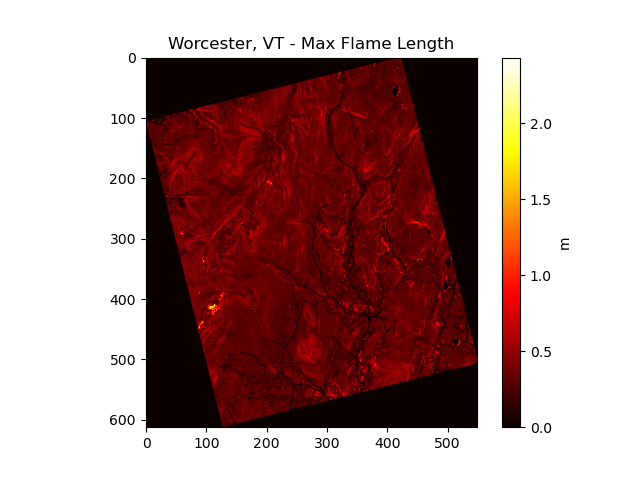
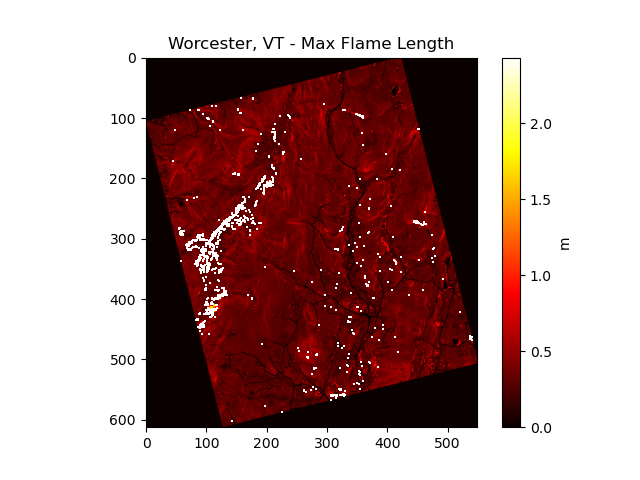
Updated fireline intensity and flame length calculations in calc_combined_fire_behavior

Changed region(s): [[0.2812, 0.4062, 0.4062, 0.6875], [0.4062, 0.3438, 0.4375, 0.4062], [0.5, 0.8125, 0.5312, 0.8438]]

diff --git a/doc/pyretechnics.html b/doc/pyretechnics.html
@@ -4512,13 +4512,9 @@ this plane from \(\vec{u_{\max}}\).
 <div class="outline-text-4" id="text-combining-surface-and-crown-fire-behavior">
 <p>
 When both surface fire and crown fire are present in the same
-location, their combined behavior determines the spread rate and
-intensity values associated with this location. Specifically, their
-combined spread rate is the maximum of the two spread rates and their
-combined fireline intensity is the sum of their two fireline
-intensities. Their combined flame length is the flame length of their
-combined fireline intensities. The fire type associated with this
-combined fire will be the crown fire type.
+location, their combined behavior determines the fire type, spread
+rate and direction, fireline intensity, and flame length values
+associated with this location.
 </p>
 
 <p>
@@ -4527,9 +4523,142 @@ fire spread ellipses with potentially different maximum spread
 directions, their relative spread rates and intensities should only be
 compared in a given absolute direction in the slope-tangential plane.
 </p>
+</div>
+<ol class="org-ol">
+<li><a id="combined-fire-type"></a>Combined Fire Type<br>
+<div class="outline-text-5" id="text-combined-fire-type">
+<p>
+The fire type associated with the combined fire is the crown fire
+type, either "passive_crown" or "active_crown".
+</p>
+</div>
+</li>
+<li><a id="combined-spread-rate-and-direction"></a>Combined Spread Rate and Direction<br>
+<div class="outline-text-5" id="text-combined-spread-rate-and-direction">
+<p>
+The combined spread rate is defined to be the maximum of the surface
+and crown spread rates as follows:
+</p>
 
+\begin{align}
+  R_{s+c} = \max(R_s, R_c) \\
+\end{align}
+
+<p>
+The combined spread direction is the spread direction associated with
+whichever fire front has the fastest spread rate.
+</p>
+</div>
+</li>
+<li><a id="combined-fireline-intensity"></a>Combined Fireline Intensity<br>
+<div class="outline-text-5" id="text-combined-fireline-intensity">
+<p>
+Combining surface and crown fireline intensities is slightly more
+complicated. From section <a href="#surface-fire-intensity-functions">6.1.3</a>, we can see
+the following relationship between the surface fire spread rate \(R_s\),
+fireline intensity \(I_s\), reaction intensity \(I_{Rs}\), and residence
+time \(t_{\text{res_s}}\):
+</p>
+
+\begin{align}
+  I_s = \frac{I_{Rs} \, R_s \, t_{\text{res_s}}}{60} \\
+\end{align}
+
+<p>
+Rearranging these terms yields the formula for the surface fire heat
+per unit area \(H_s\):
+</p>
+
+\begin{align}
+  H_s = I_{Rs} \, t_{\text{res_s}} = 60 \, \frac{I_s}{R_s} \\
+\end{align}
+
+<p>
+Similarly, we can infer that the same physical relationships also hold
+regarding heat per unit area for crown fires:
+</p>
+
+\begin{align}
+  I_c &= \frac{I_{Rc} \, R_c \, t_{\text{res_c}}}{60} \\
+  \nonumber \\
+  H_c &= I_{Rc} \, t_{\text{res_c}} = 60 \, \frac{I_c}{R_c} \\
+\end{align}
+
+<p>
+Although \(I_{Rc}\) and \(t_{\text{res_c}}\) are undefined, we can
+fortunately recover \(H_c\) from the crown fire spread rate \(R_c\) and
+fireline intensity \(I_c\) alone.
+</p>
+
+<p>
+When both surface and canopy fuels burn in the same area, their
+combined heat per unit area \(H_{s+c}\) is their sum:
+</p>
+
+\begin{align}
+  H_{s+c} = H_s + H_c \\
+\end{align}
+
+<p>
+Applying the relationship between fireline intensity and spread rate
+shown above to the combined heat per unit area then yields this
+formula:
+</p>
+
+\begin{align}
+  H_{s+c} = 60 \, \frac{I_{s+c}}{R_{s+c}} \\
+\end{align}
+
+<p>
+Combining these two equations and substituting in the definitions for
+\(H_s\) and \(H_c\) above gives us the following derivation for the
+combined fireline intensity \(I_{s+c}\):
+</p>
+
+\begin{align}
+  H_{s+c} &= H_s + H_c \\
+  \nonumber \\
+  60 \, \frac{I_{s+c}}{R_{s+c}} &= 60 \left(\frac{I_s}{R_s} + \frac{I_c}{R_c}\right) \\
+  \nonumber \\
+  I_{s+c} &= R_{s+c} \left(\frac{I_s}{R_s} + \frac{I_c}{R_c}\right) \\
+\end{align}
+
+<p>
+Note that by definition \(R_{s+c} \le R_s + R_c\) and therefore \(I_{s+c}
+\ge I_s + I_c\). Substituting in the definition of \(R_{s+c}\) gives us
+this piecewise formula:
+</p>
+
+\begin{align}
+  I_{s+c} &= \left\{
+    \begin{array}{lr}
+      I_s + I_c \frac{R_s}{R_c} & \text{when}\ R_s > R_c \\
+      I_s \frac{R_c}{R_s} + I_c & \text{when}\  R_s < R_c \\
+      I_s + I_c & \text{when}\ R_s = R_c \\
+    \end{array}
+  \right. \\
+\end{align}
+</div>
+</li>
+<li><a id="combined-flame-length"></a>Combined Flame Length<br>
+<div class="outline-text-5" id="text-combined-flame-length">
+<p>
+The combined flame length is the flame length of the combined fireline
+intensity as follows:
+</p>
+
+\begin{align}
+  L_{s+c} = 0.45(I_{s+c})^{0.46}
+\end{align}
+</div>
+</li>
+<li><a id="combined-fire-behavior-implementation"></a>Combined Fire Behavior Implementation<br>
+<div class="outline-text-5" id="text-combined-fire-behavior-implementation">
 <div class="org-src-container">
-<pre class="src src-python" id="combined-fire-behavior"><span class="org-keyword">def</span> <span class="org-function-name">calc_combined_fire_behavior</span>(surface_fire_behavior, crown_fire_behavior):
+<pre class="src src-python" id="combined-fire-behavior"><span class="org-keyword">import</span> pyretechnics.surface_fire <span class="org-keyword">as</span> sf
+
+
+<span class="org-keyword">def</span> <span class="org-function-name">calc_combined_fire_behavior</span>(surface_fire_behavior, crown_fire_behavior):
     <span class="org-doc">"""</span>
 <span class="org-doc">    Given these inputs:</span>
 <span class="org-doc">    - surface_fire_behavior :: dictionary of surface fire behavior values</span>
@@ -4563,25 +4692,31 @@ compared in a given absolute direction in the slope-tangential plane.
     <span class="org-comment-delimiter"># </span><span class="org-comment">Determine whether the surface or crown fire has the fastest spread rate</span>
     <span class="org-keyword">if</span> surface_spread_rate <span class="org-operator">&gt;</span> crown_spread_rate:
         <span class="org-comment-delimiter"># </span><span class="org-comment">Surface fire spreads faster</span>
+        <span class="org-variable-name">combined_fireline_intensity</span> <span class="org-operator">=</span> (surface_fireline_intensity
+                                       <span class="org-operator">+</span> crown_fireline_intensity <span class="org-operator">*</span> surface_spread_rate <span class="org-operator">/</span> crown_spread_rate)
         <span class="org-keyword">return</span> {
             <span class="org-string">"fire_type"</span>         : crown_fire_type,
             <span class="org-string">"spread_rate"</span>       : surface_spread_rate,
             <span class="org-string">"spread_direction"</span>  : surface_spread_direction,
-            <span class="org-string">"fireline_intensity"</span>: surface_fireline_intensity <span class="org-operator">+</span> crown_fireline_intensity,
-            <span class="org-string">"flame_length"</span>      : calc_crown_fire_flame_length(surface_fireline_intensity, crown_fireline_intensity),
+            <span class="org-string">"fireline_intensity"</span>: combined_fireline_intensity,
+            <span class="org-string">"flame_length"</span>      : sf.calc_flame_length(combined_fireline_intensity),
         }
     <span class="org-keyword">else</span>:
         <span class="org-comment-delimiter"># </span><span class="org-comment">Crown fire spreads faster</span>
+        <span class="org-variable-name">combined_fireline_intensity</span> <span class="org-operator">=</span> (surface_fireline_intensity <span class="org-operator">*</span> crown_spread_rate <span class="org-operator">/</span> surface_spread_rate
+                                       <span class="org-operator">+</span> crown_fireline_intensity)
         <span class="org-keyword">return</span> {
             <span class="org-string">"fire_type"</span>         : crown_fire_type,
             <span class="org-string">"spread_rate"</span>       : crown_spread_rate,
             <span class="org-string">"spread_direction"</span>  : crown_spread_direction,
-            <span class="org-string">"fireline_intensity"</span>: surface_fireline_intensity <span class="org-operator">+</span> crown_fireline_intensity,
-            <span class="org-string">"flame_length"</span>      : calc_crown_fire_flame_length(surface_fireline_intensity, crown_fireline_intensity),
+            <span class="org-string">"fireline_intensity"</span>: combined_fireline_intensity,
+            <span class="org-string">"flame_length"</span>      : sf.calc_flame_length(combined_fireline_intensity),
         }
 </pre>
 </div>
 </div>
+</li>
+</ol>
 </div>
 </div>
 <div id="outline-container-for-users-crown" class="outline-3">
@@ -5238,7 +5373,7 @@ and the crown fire heat per unit area \(H_{Ac}\):
 <p>
 Although \(I_{Rc}\) and \(t_{\text{res_c}}\) are undefined, we can
 fortunately recover \(H_{Ac}\) (and ultimately \(H_A\)) from the surface
-and crown fire spread rates and reaction intensities alone.
+and crown fire spread rates and fireline intensities alone.
 </p>
 
 <div class="org-src-container">

diff --git a/src/pyretechnics/crown_fire.py b/src/pyretechnics/crown_fire.py
@@ -281,6 +281,9 @@ def calc_crown_fire_behavior_in_direction(crown_fire_max, spread_direction):
         }
 # crown-fire-behavior-in-direction ends here
 # [[file:../../org/pyretechnics.org::combined-fire-behavior][combined-fire-behavior]]
+import pyretechnics.surface_fire as sf
+
+
 def calc_combined_fire_behavior(surface_fire_behavior, crown_fire_behavior):
     """
     Given these inputs:
@@ -315,20 +318,24 @@ def calc_combined_fire_behavior(surface_fire_behavior, crown_fire_behavior):
     # Determine whether the surface or crown fire has the fastest spread rate
     if surface_spread_rate > crown_spread_rate:
         # Surface fire spreads faster
+        combined_fireline_intensity = (surface_fireline_intensity
+                                       + crown_fireline_intensity * surface_spread_rate / crown_spread_rate)
         return {
             "fire_type"         : crown_fire_type,
             "spread_rate"       : surface_spread_rate,
             "spread_direction"  : surface_spread_direction,
-            "fireline_intensity": surface_fireline_intensity + crown_fireline_intensity,
-            "flame_length"      : calc_crown_fire_flame_length(surface_fireline_intensity, crown_fireline_intensity),
+            "fireline_intensity": combined_fireline_intensity,
+            "flame_length"      : sf.calc_flame_length(combined_fireline_intensity),
         }
     else:
         # Crown fire spreads faster
+        combined_fireline_intensity = (surface_fireline_intensity * crown_spread_rate / surface_spread_rate
+                                       + crown_fireline_intensity)
         return {
             "fire_type"         : crown_fire_type,
             "spread_rate"       : crown_spread_rate,
             "spread_direction"  : crown_spread_direction,
-            "fireline_intensity": surface_fireline_intensity + crown_fireline_intensity,
-            "flame_length"      : calc_crown_fire_flame_length(surface_fireline_intensity, crown_fireline_intensity),
+            "fireline_intensity": combined_fireline_intensity,
+            "flame_length"      : sf.calc_flame_length(combined_fireline_intensity),
         }
 # combined-fire-behavior ends here
